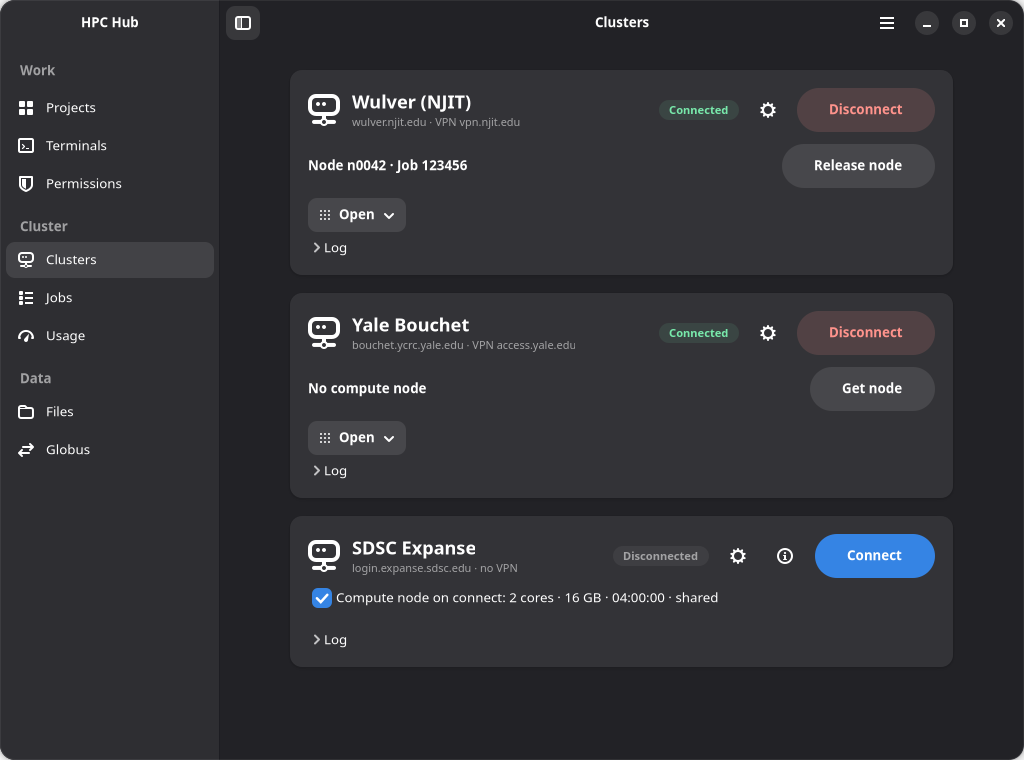
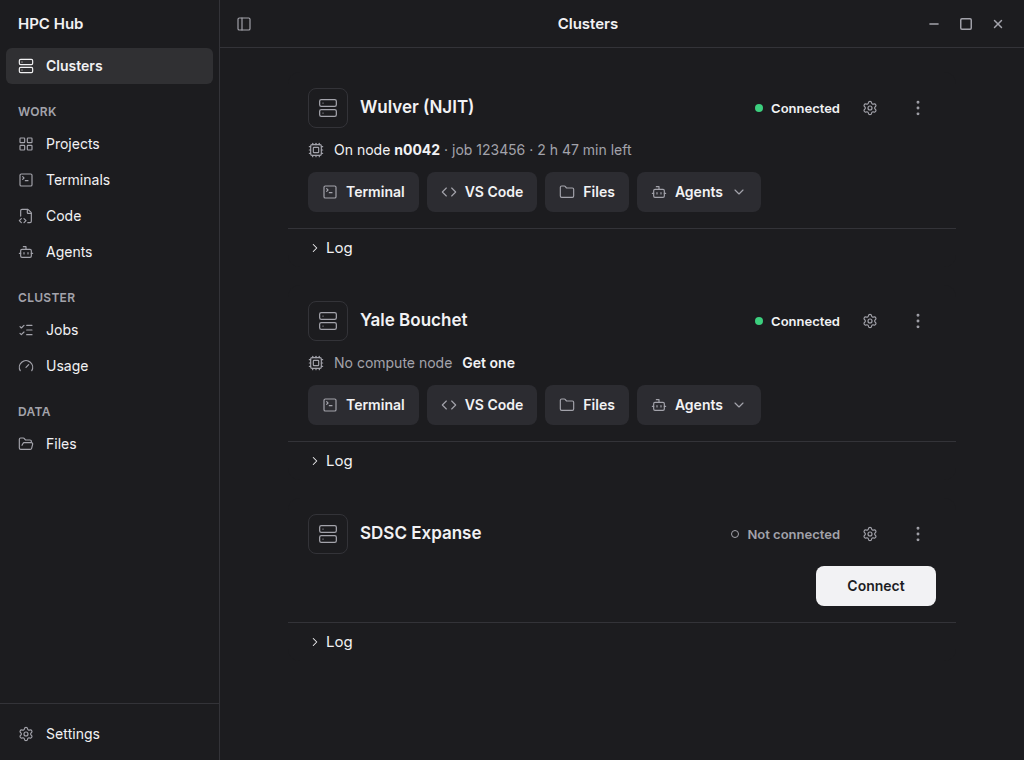
docs: a short readme with new screenshots, contributing moved out

diff --git a/README.md b/README.md
@@ -1,12 +1,10 @@
 # HPC Hub
 
-An app for working on HPC clusters from Linux, Windows and macOS (Android is on the way). One click connects you (VPN, SSH, Duo or a code from your
-authenticator app), gets you a compute node, and opens VS Code, Claude or a terminal there. Files, jobs, Globus
-transfers and LaTeX are in the same window.
+Work on HPC clusters from Linux, Windows and macOS. One click connects you (VPN, SSH, Duo), gets you a compute node
+and opens VS Code, Claude or a terminal there. Set up for NJIT Wulver, Yale Bouchet and SDSC Expanse; add others in
+Settings.
 
-It comes set up for NJIT Wulver, Yale Bouchet and SDSC Expanse. You can add other clusters in Settings.
-
-![Clusters: connect, get a compute node, open tools](docs/screenshots/clusters.png)
+![Clusters](docs/screenshots/clusters.png)
 
 | Projects | Jobs |
 |---|---|
@@ -14,124 +12,40 @@ It comes set up for NJIT Wulver, Yale Bouchet and SDSC Expanse. You can add othe
 
 ## What it does
 
-- **Clusters**: connect with one button. VPN, SSH and Duo push are handled for you. Ask for a compute node with the
-  cores, memory and time you saved for that cluster.
-- **Jobs and usage**: your jobs, your history or everyone's, with filters, details and cancel. Service units per
-  person and storage quotas.
-- **Projects**: name a folder on a cluster and open it in VS Code, Claude, Files or LaTeX in one click. Copy or sync a
-  project, with its Claude chats, to another cluster.
-- **Terminals**: tmux sessions on the cluster, so VS Code tunnels and agents keep running when you close the laptop.
-- **Agents**: run Claude, Codex, Antigravity or Cursor on a compute node, and choose which commands they may run.
-- **Files**: browse, preview PDFs and images, edit, zip, upload and download. Copy between clusters directly or with
-  Globus, with live progress.
-- **Globus**: sign in once. The app finds each cluster's collection by itself and asks only for the permissions
-  Globus needs.
+- **Clusters**: connect in one click and get a compute node with the size you picked.
+- **VS Code**: runs on a compute node and opens on your computer. The window shows each step until it's ready.
+- **Projects**: open a folder in VS Code, Claude, Files or LaTeX. Copy a project to another cluster.
+- **Terminals and agents**: tmux sessions and Claude, Codex, Antigravity or Cursor keep running when you close the
+  laptop.
+- **Jobs and usage**: your jobs, history, service units and storage.
+- **Files and Globus**: browse, preview, edit, upload, and copy between clusters.
 
-Experimental, off until you turn them on in Settings:
-
-- **LaTeX**: an Overleaf-like editor for projects on the cluster. Build with latexmk, jump between source and PDF,
-  see git history, pull and push.
-- **Skills**: add skills to Claude and Codex on each cluster, from HPC Hub's set or any git repository.
-- **Scheduled agents**: an agent runs a task on its own, for example every night at 02:00.
-
-## Safety
-
-- Usernames and passwords are typed into the app and kept in your system's keyring (GNOME Keyring, macOS Keychain,
-  Windows Credential Manager; on Android an encrypted file whose key stays in the phone's Keystore), never in plain
-  text and never hardcoded. Settings in `~/.config/hpc-hub` hold no secrets.
-- Globus sign-in uses OAuth with PKCE in your own browser. Tokens are kept in the keyring.
-- Your saved VPN password is typed only into sign-in pages of your university's own site or a known sign-in
-  provider, over https.
-- One exception, on the cluster: VS Code keeps its GitHub sign-in in your home folder there, unencrypted, so a
-  tunnel on a new node does not ask you again. Sign out with `code tunnel user logout` if you don't want that.
+![VS Code](docs/screenshots/vscode.png)
 
 ## Install
 
-Download the file for your system from [Releases](../../releases). The installers are not signed yet, so your
-system warns you the first time.
+Get the file for your system from [Releases](../../releases). The app isn't signed yet, so the first start warns you.
 
-### Windows 10 and 11
+- **Windows**: run the `-setup.exe`. On "Windows protected your PC", click **More info**, then **Run anyway**.
+- **macOS** (Apple silicon): drag HPC Hub from the `.dmg` to Applications. On first start, go to **System Settings,
+  Privacy & Security** and click **Open Anyway**.
+- **Linux**: `chmod +x HPC-Hub_*.AppImage` and run it, or install the `.deb` / `.rpm`. The VPN needs `openconnect`;
+  Yale's also needs `python3-gi gir1.2-webkit-6.0` (Ubuntu) or `python3-gobject webkitgtk6.0` (Fedora).
+- **Android**: coming soon.
 
-1. Run the `-setup.exe` (or the `.msi`). If Windows says "Windows protected your PC", click
-   **More info**, then **Run anyway**.
-2. Open HPC Hub from the Start menu.
-3. The first time you connect a cluster with a VPN (Wulver, Yale), HPC Hub asks to set up its VPN helper. Click
-   **Set up** and approve the Windows prompt. This happens once.
+The first VPN connection on Windows and macOS asks once to set up the VPN helper.
 
-### macOS (Apple silicon)
+## Updates
 
-1. Open the `.dmg` and drag HPC Hub to Applications.
-2. Open it. macOS says it can't check the app: go to **System Settings, Privacy & Security**, scroll down and click
-   **Open Anyway**. This happens once.
-3. The first time you connect a cluster with a VPN, approve "Set up the VPN helper" and type your Mac password once.
+From 0.2.1 on, HPC Hub updates itself: click **Update** in the sidebar when a new version is out. Installed from a
+`.deb` or `.rpm`? Install the new file from Releases instead.
 
-On Windows and macOS the VPN sends all your DNS through the university while it is up, and Disconnect on Windows
-doesn't sign you out on the VPN server (it ends by itself).
+## Safety
 
-### Linux
+Passwords stay in your system's keyring, never in plain text. Updates are signed, and the app installs only ours.
+Your VPN password is typed only into your university's own sign-in page. One exception: VS Code keeps its GitHub
+sign-in on the cluster, in your home folder (`code tunnel user logout` removes it).
 
-- Ubuntu, Debian: `sudo apt install ./HPC-Hub_*_linux_amd64.deb`
-- Fedora, RHEL: `sudo dnf install ./HPC-Hub_*_linux_x86_64.rpm`
-- Any other: `chmod +x HPC-Hub_*.AppImage` and run it.
+## Contributing
 
-The VPN needs `openconnect` from your distribution. A VPN that signs in on the university's web page (Yale's)
-also needs PyGObject with GTK 4 and WebKitGTK 6: `python3-gi gir1.2-webkit-6.0` on Ubuntu and Debian,
-`python3-gobject webkitgtk6.0` on Fedora.
-
-### Android
-
-Not released yet. To try it, build it yourself (see [docs/design/android.md](docs/design/android.md)). It will come
-to Google Play and F-Droid. To log in, open HPC Hub's menu on your computer, then Set up the phone app, and scan the
-QR code with the phone.
-
-## Globus
-
-Globus copies need a free Globus app id. Make one at app.globus.org/settings/developers (choose a native app, name it
-HPC Hub, redirect URL `https://auth.globus.org/v2/web/auth-code`) and paste it on the Globus page.
-
-## Code layout
-
-    app/          desktop app: Tauri (src-tauri, Rust) and React (src)
-    mobile/       Android app; reuses app/src
-    hpc_hub/      Python backend the apps talk to over JSON-RPC
-      api/        the RPC server and one module per feature in methods/
-      core/       config, keyring, SSH: used by every feature
-      connect/    VPN, sign-in, Duo
-      compute/    Slurm, compute nodes, jobs, usage
-      files/      browse, edit and copy files on the clusters
-      globus/     Globus sign-in, collections and transfers
-      agents/     Claude and other agents, chats, skills, permissions
-      latex/      LaTeX editor, build, SyncTeX, git
-      pdf/        PDF tools and read aloud
-      projects/   named project folders and copying them across clusters
-      terminals/  tmux sessions
-      backup/     backups of cluster folders
-    bin/          helpers ssh and openconnect call (askpass, SSO)
-    packaging/    the frozen backend and release settings
-    tests/        same folders as hpc_hub/
-
-## Development
-
-    python3 -m venv .venv
-    .venv/bin/pip install pytest ruff -r packaging/requirements-backend.txt
-    .venv/bin/python -m pytest -q
-    .venv/bin/ruff check hpc_hub tests packaging
-
-    cd app && npm ci
-    npm run tauri dev      # the desktop app
-    npx tsc -b && npm test # types and frontend tests
-
-Guidelines:
-
-- Each feature has its own folder in `hpc_hub/` and in `app/src/components/`. Logic that parses output or builds
-  shell commands has tests. Shared test fakes are in `tests/helpers.py`.
-- One job per file. A file over about 300 lines should be split.
-- Remote commands go through `SshMaster.run`. Quote paths with `shlex.quote`.
-- Never hardcode usernames, passwords or personal paths, including in tests. Use made-up names like `jdoe`.
-- Few comments, and only ones that say why. Lines up to 120 characters.
-- UI text: plain and short, no em or en dashes.
-- Commits: atomic, `type(scope): short msg`.
-
-## License
-
-MIT, see [LICENSE](LICENSE).
+See [CONTRIBUTING.md](CONTRIBUTING.md). MIT license.

diff --git a/CONTRIBUTING.md b/CONTRIBUTING.md
@@ -1,0 +1,51 @@
+# Contributing to HPC Hub
+
+## Code layout
+
+    app/          desktop app: Tauri (src-tauri, Rust) and React (src)
+    mobile/       Android app; reuses app/src
+    hpc_hub/      Python backend the apps talk to over JSON-RPC
+      api/        the RPC server and one module per feature in methods/
+      core/       config, keyring, SSH: used by every feature
+      connect/    VPN, sign-in, Duo
+      compute/    Slurm, compute nodes, jobs, usage
+      files/      browse, edit and copy files on the clusters
+      globus/     Globus sign-in, collections and transfers
+      agents/     Claude and other agents, chats, skills, permissions
+      latex/      LaTeX editor, build, SyncTeX, git
+      pdf/        PDF tools and read aloud
+      projects/   named project folders and copying them across clusters
+      terminals/  tmux sessions
+      backup/     backups of cluster folders
+    bin/          helpers ssh and openconnect call (askpass, SSO)
+    packaging/    the frozen backend and release settings
+    tests/        same folders as hpc_hub/
+
+## Development
+
+    python3 -m venv .venv
+    .venv/bin/pip install pytest ruff -r packaging/requirements-backend.txt
+    .venv/bin/python -m pytest -q
+    .venv/bin/ruff check hpc_hub tests packaging
+
+    cd app && npm ci
+    npm run tauri dev      # the desktop app
+    npx tsc -b && npm test # types and frontend tests
+
+Guidelines:
+
+- Each feature has its own folder in `hpc_hub/` and in `app/src/components/`. Logic that parses output or builds
+  shell commands has tests. Shared test fakes are in `tests/helpers.py`.
+- One job per file. A file over about 300 lines should be split.
+- Remote commands go through `SshMaster.run`. Quote paths with `shlex.quote`.
+- Never hardcode usernames, passwords or personal paths, including in tests. Use made-up names like `jdoe`.
+- Few comments, and only ones that say why. Lines up to 120 characters.
+- UI text: plain and short, no em or en dashes.
+- Commits: atomic, `type(scope): short msg`.
+
+Releasing a version (the update key, the Build workflow's publish option): [docs/releasing.md](docs/releasing.md).
+
+## Globus app id
+
+Globus copies need a free Globus app id. Make one at app.globus.org/settings/developers (choose a native app, name it
+HPC Hub, redirect URL `https://auth.globus.org/v2/web/auth-code`) and paste it on the Globus page.
